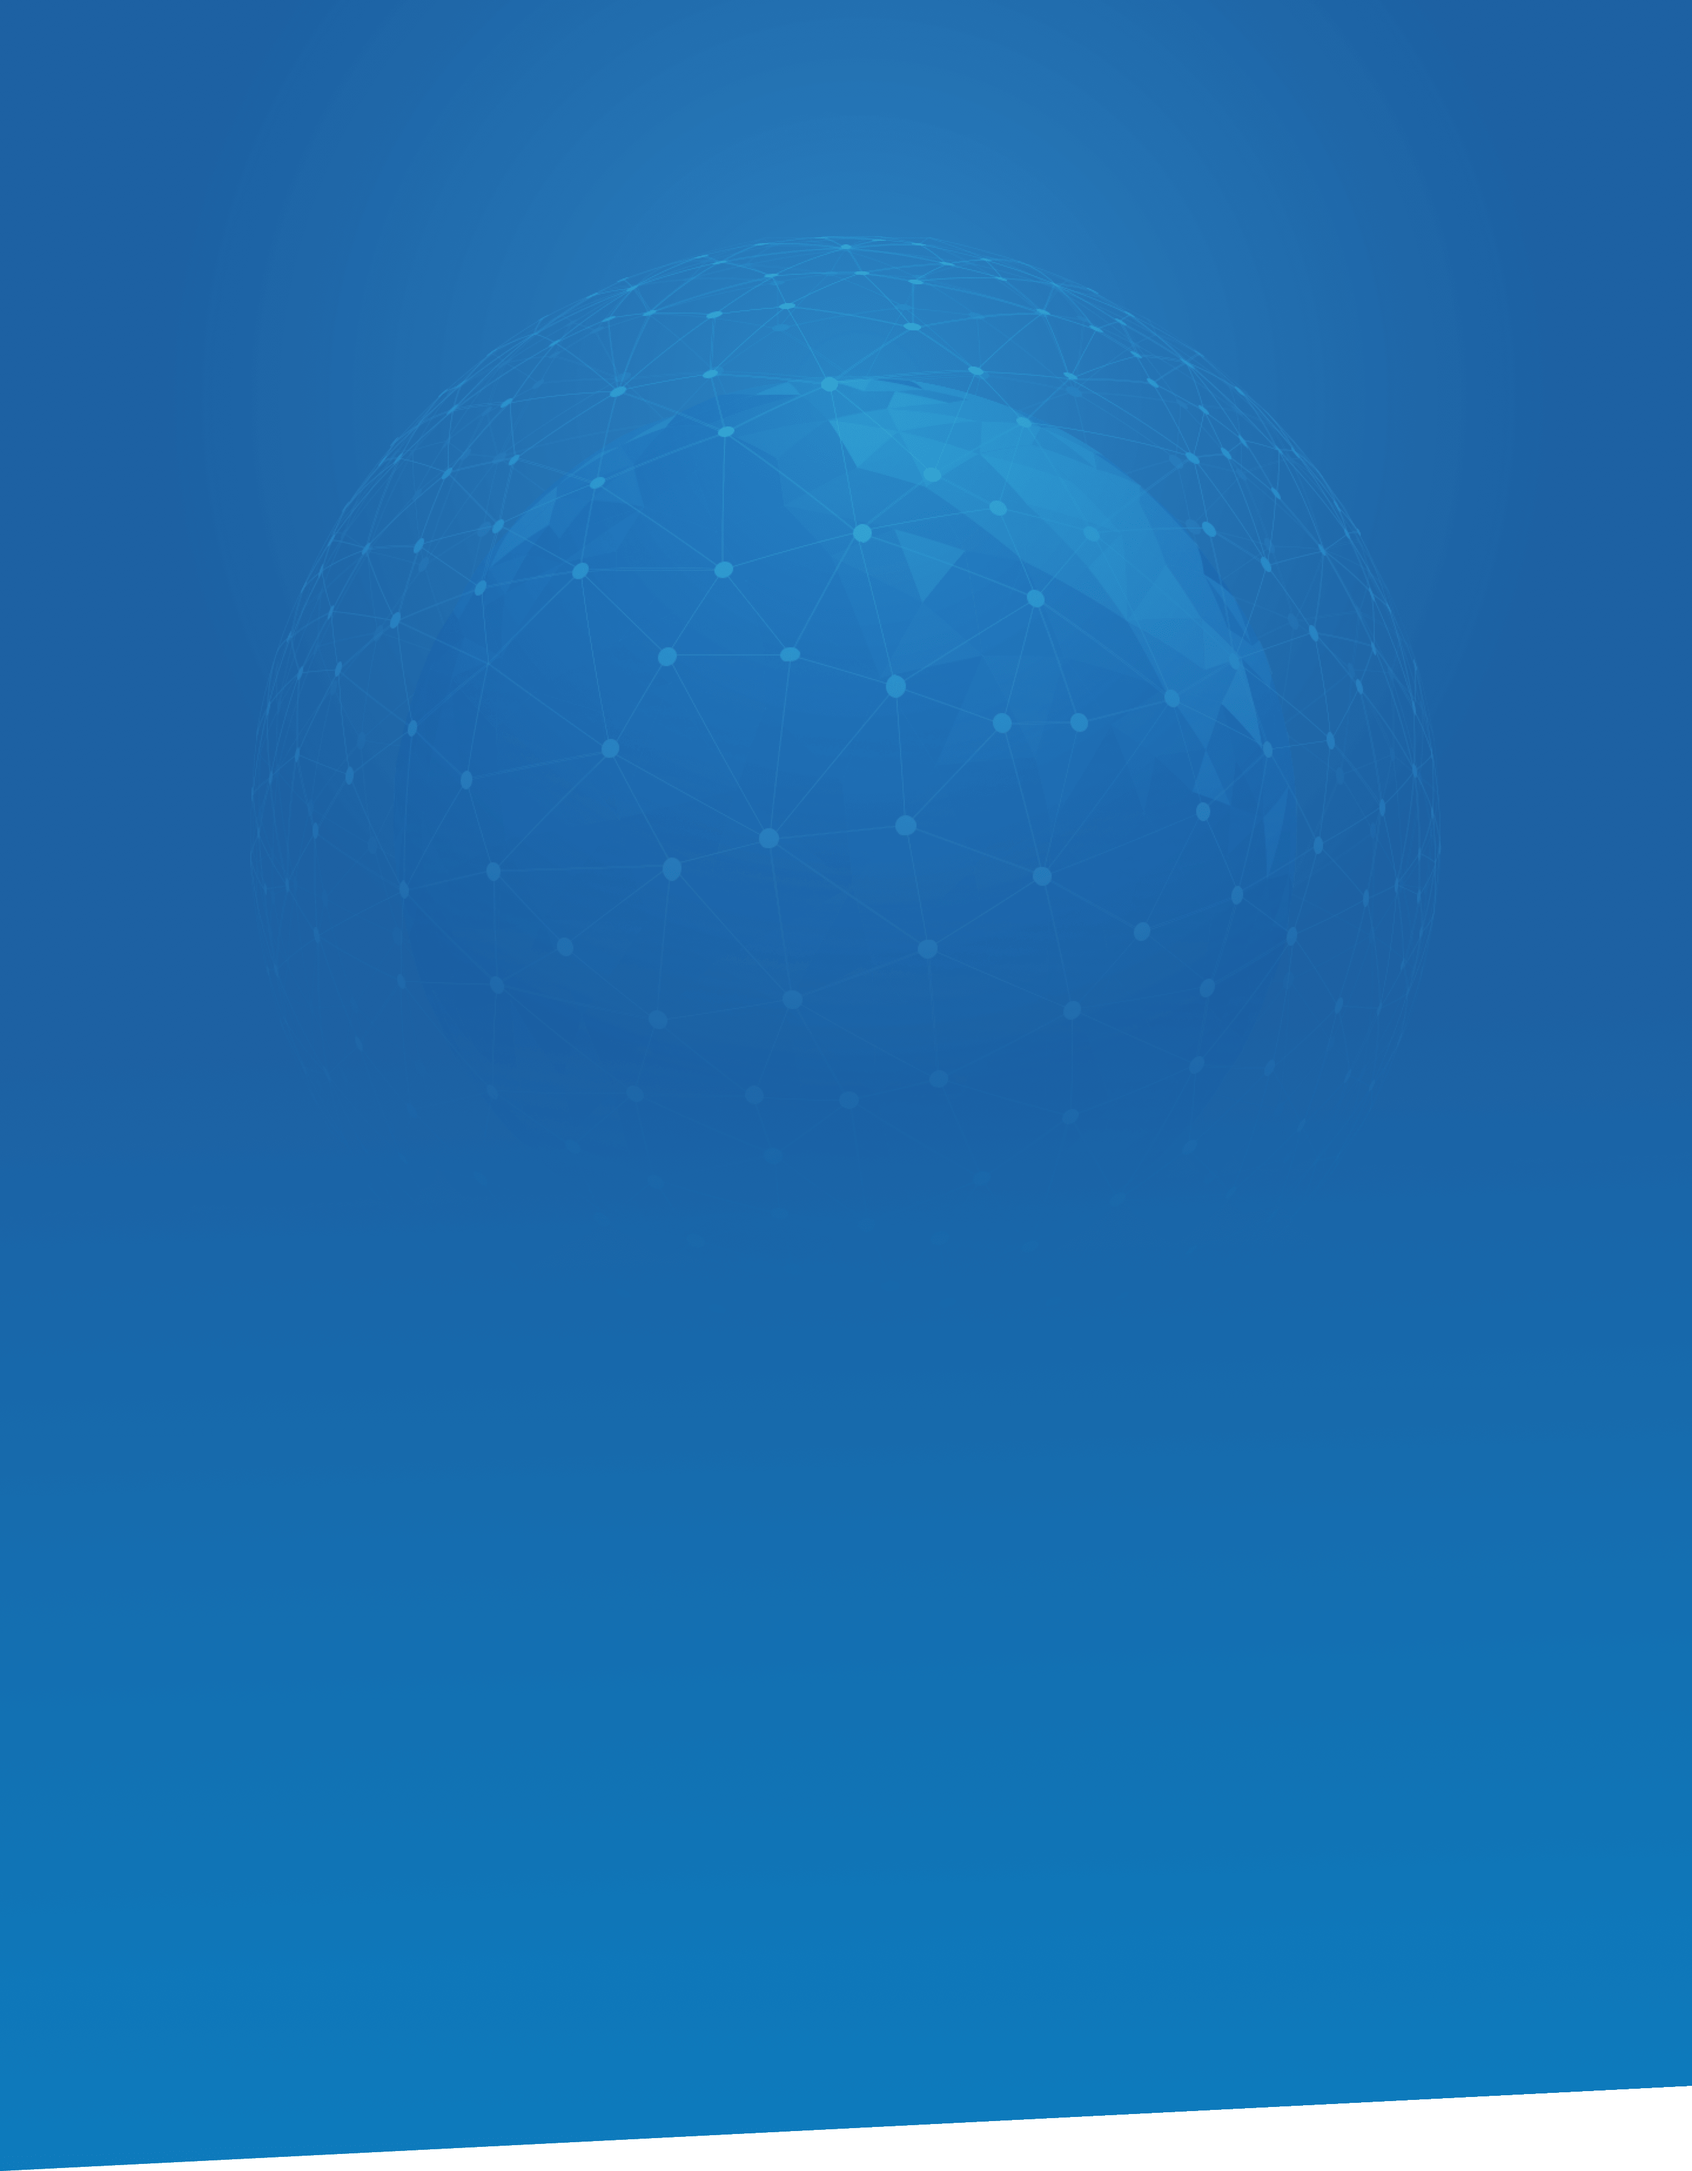
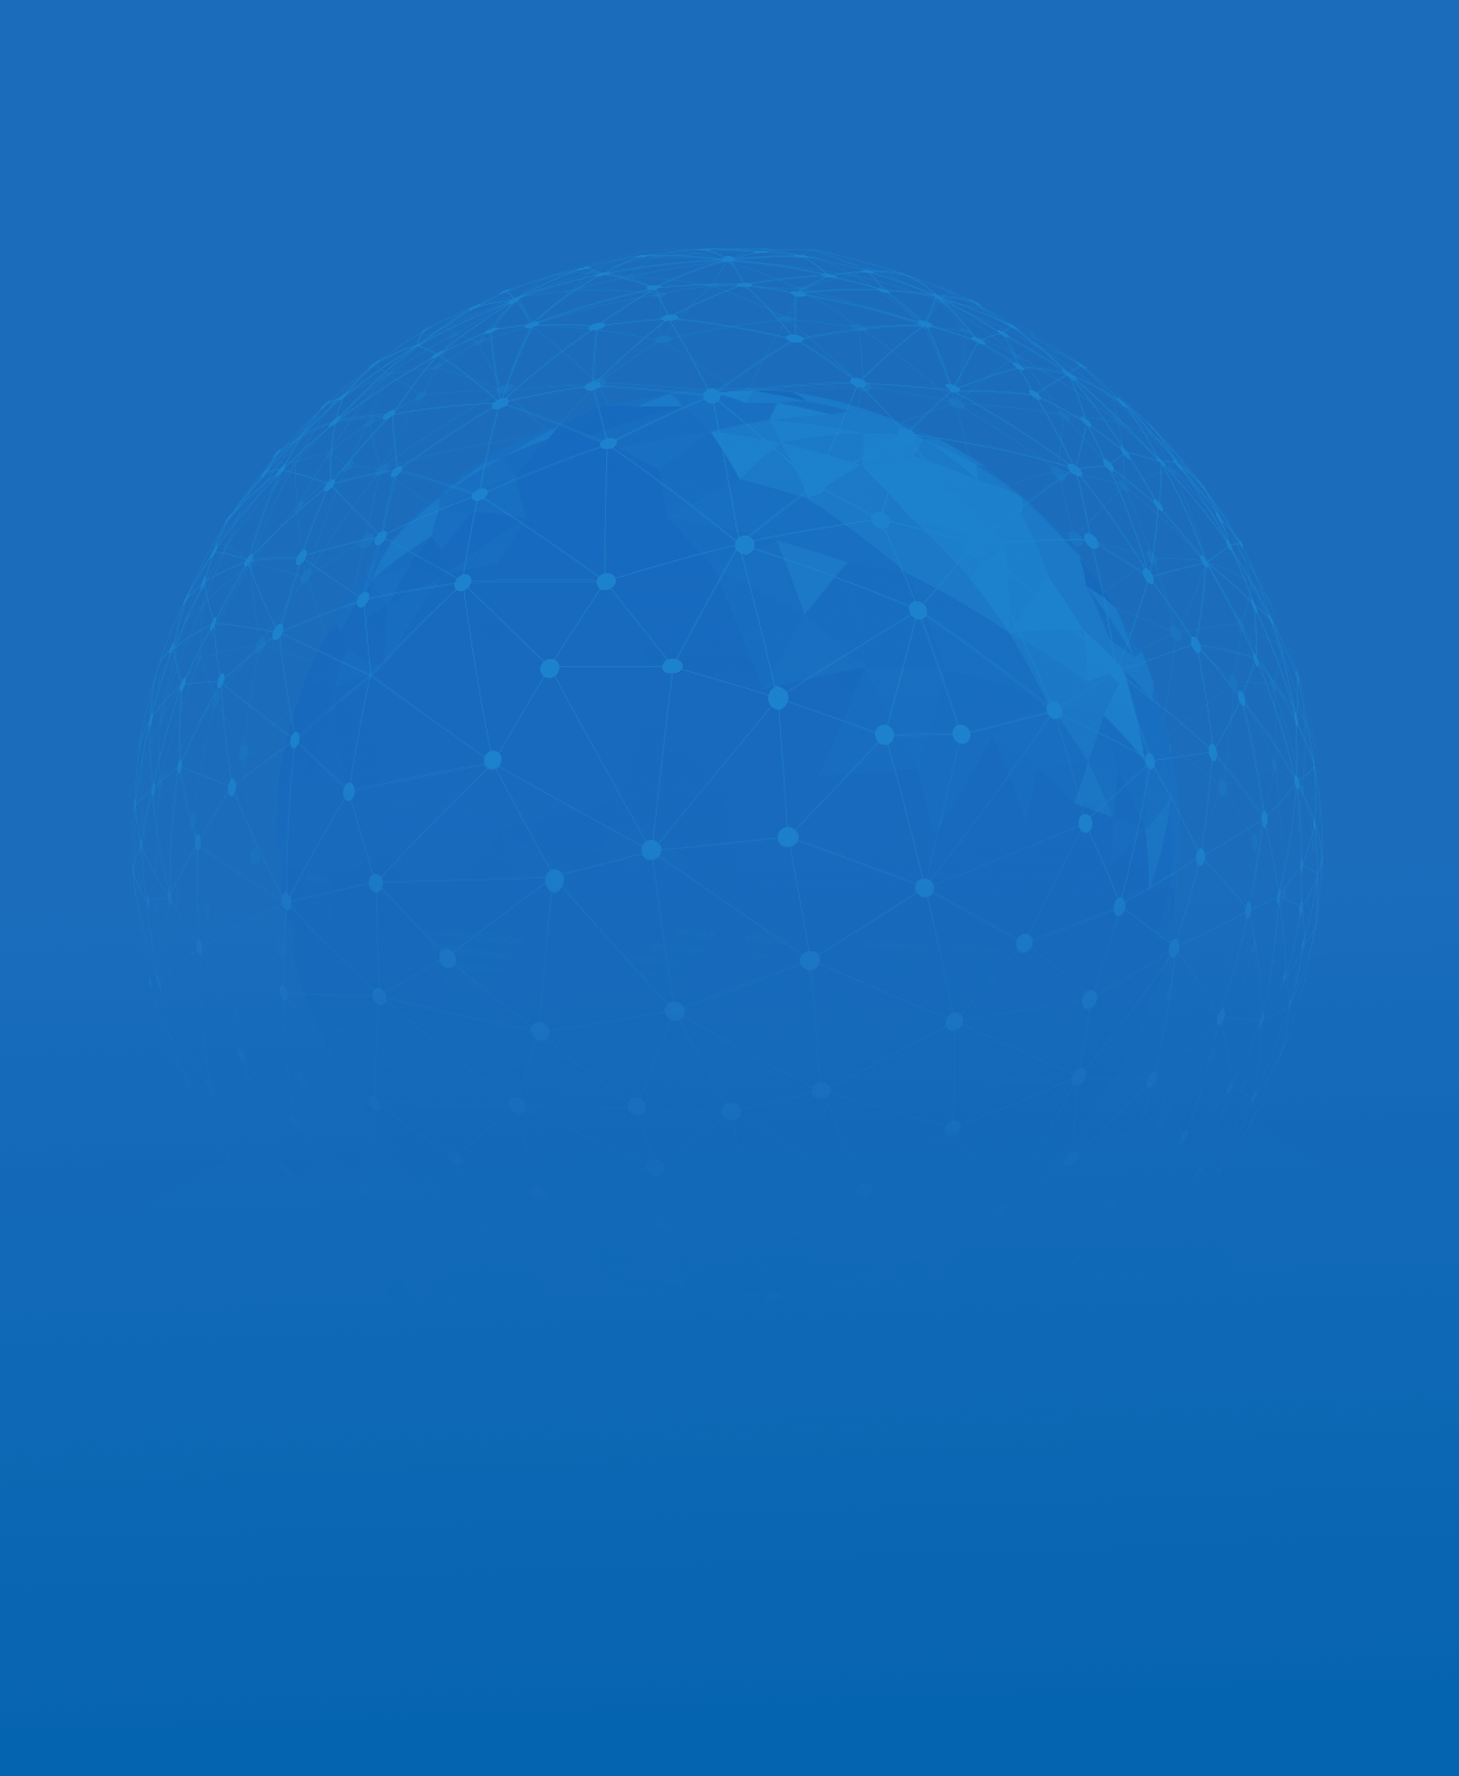
add desktop intro background and slant + some intro spacing fixes

diff --git a/app/assets/stylesheets/homepage/_intro.scss b/app/assets/stylesheets/homepage/_intro.scss
@@ -5,7 +5,14 @@ section.intro {
   position: relative;
   padding-bottom: 60px;
   @media(min-width: $medium) {}
-  @media(min-width: $large) {}
+  @media(min-width: $large) {
+    background-color: #0665B0;
+    background-image: url("intro_bg_gradient@2x.png");
+    background-repeat: repeat-x;
+    background-size: 101px;
+    padding-bottom: 0;
+
+  }
 
   .intro-splash {
     height: 100vh;
@@ -17,7 +24,7 @@ section.intro {
       justify-content: center;
     }
     @media(min-width: $large) {
-      max-height: 900px;
+      max-height: 820px;
     }
   }
 
@@ -28,30 +35,33 @@ section.intro {
     height: 100%;
     position: absolute;
     background-size: cover;
-    z-index: -2;
+    z-index: 0;
     top: 0;
     @media(min-width: $medium) {
       background-image: url("intro_bg_tablet@2x.png");
     }
     @media(min-width: $large) {
       background-image: url("intro_bg_desktop@2x.png");
+      background-size: 1243px;
+      background-position: center top;
+      background-repeat: no-repeat;
     }
   }
 
   &:after {
     @media(min-width: $medium) {
-      background: #0f79bc;
+      background: #0665B0;
       bottom: -3px;
       content: '';
       z-index: 2;
       display: block;
-      height: 45px;
+      height: 80px;
       left: 0;
       position: absolute;
       right: 0;
       transform: skewY(-2.5deg);
       transform-origin: 100%;
-      z-index: 2;
+      z-index: 0;
     }
   }
 

diff --git a/app/assets/stylesheets/homepage/_ourvision.scss b/app/assets/stylesheets/homepage/_ourvision.scss
@@ -14,6 +14,9 @@
   }
   @media(min-width: $large) {
     // background-image: url("intro_bg_tablet@2x.png");
+    margin-top: 0;
+    padding-bottom: 0;
+    padding-top: 40px;
   }
 
   h2 {
@@ -35,6 +38,7 @@
       }
       @media(min-width: $large) {
         margin-bottom: 0;
+        font-size: 34px;
       }
 
       img {

diff --git a/app/assets/stylesheets/homepage/_poc.scss b/app/assets/stylesheets/homepage/_poc.scss
@@ -25,6 +25,10 @@
   img.screenshot {
     width: 100%;
     margin-left: -8px;
+    @media(min-width: $large) {
+      position: absolute;
+      z-index: 5;
+    }
   }
 
   .poc-screenshot {
@@ -43,6 +47,7 @@
 
       button {
         font-size: 13px;
+        z-index: 10;
       }
 
       @media(min-width: $medium) {

diff --git a/app/assets/stylesheets/homepage/_statusquo.scss b/app/assets/stylesheets/homepage/_statusquo.scss
@@ -8,6 +8,10 @@
     background: #F6FBFF;
     padding-top: 60px;
   }
+  @media(min-width: $large) {
+    background: #F6FBFF;
+    padding-top: 200px;
+  }
 
   h2 {
     color: var(--h2-secondary-color);

diff --git a/app/assets/stylesheets/application.scss b/app/assets/stylesheets/application.scss
@@ -68,8 +68,8 @@ h1 {
     text-align: center;
   }
   @media(min-width: $large) {
-    font-size: 37px;
-    text-transform: uppercase;
+    font-size: 48px;
+    // text-transform: uppercase;
   }
 }
 
